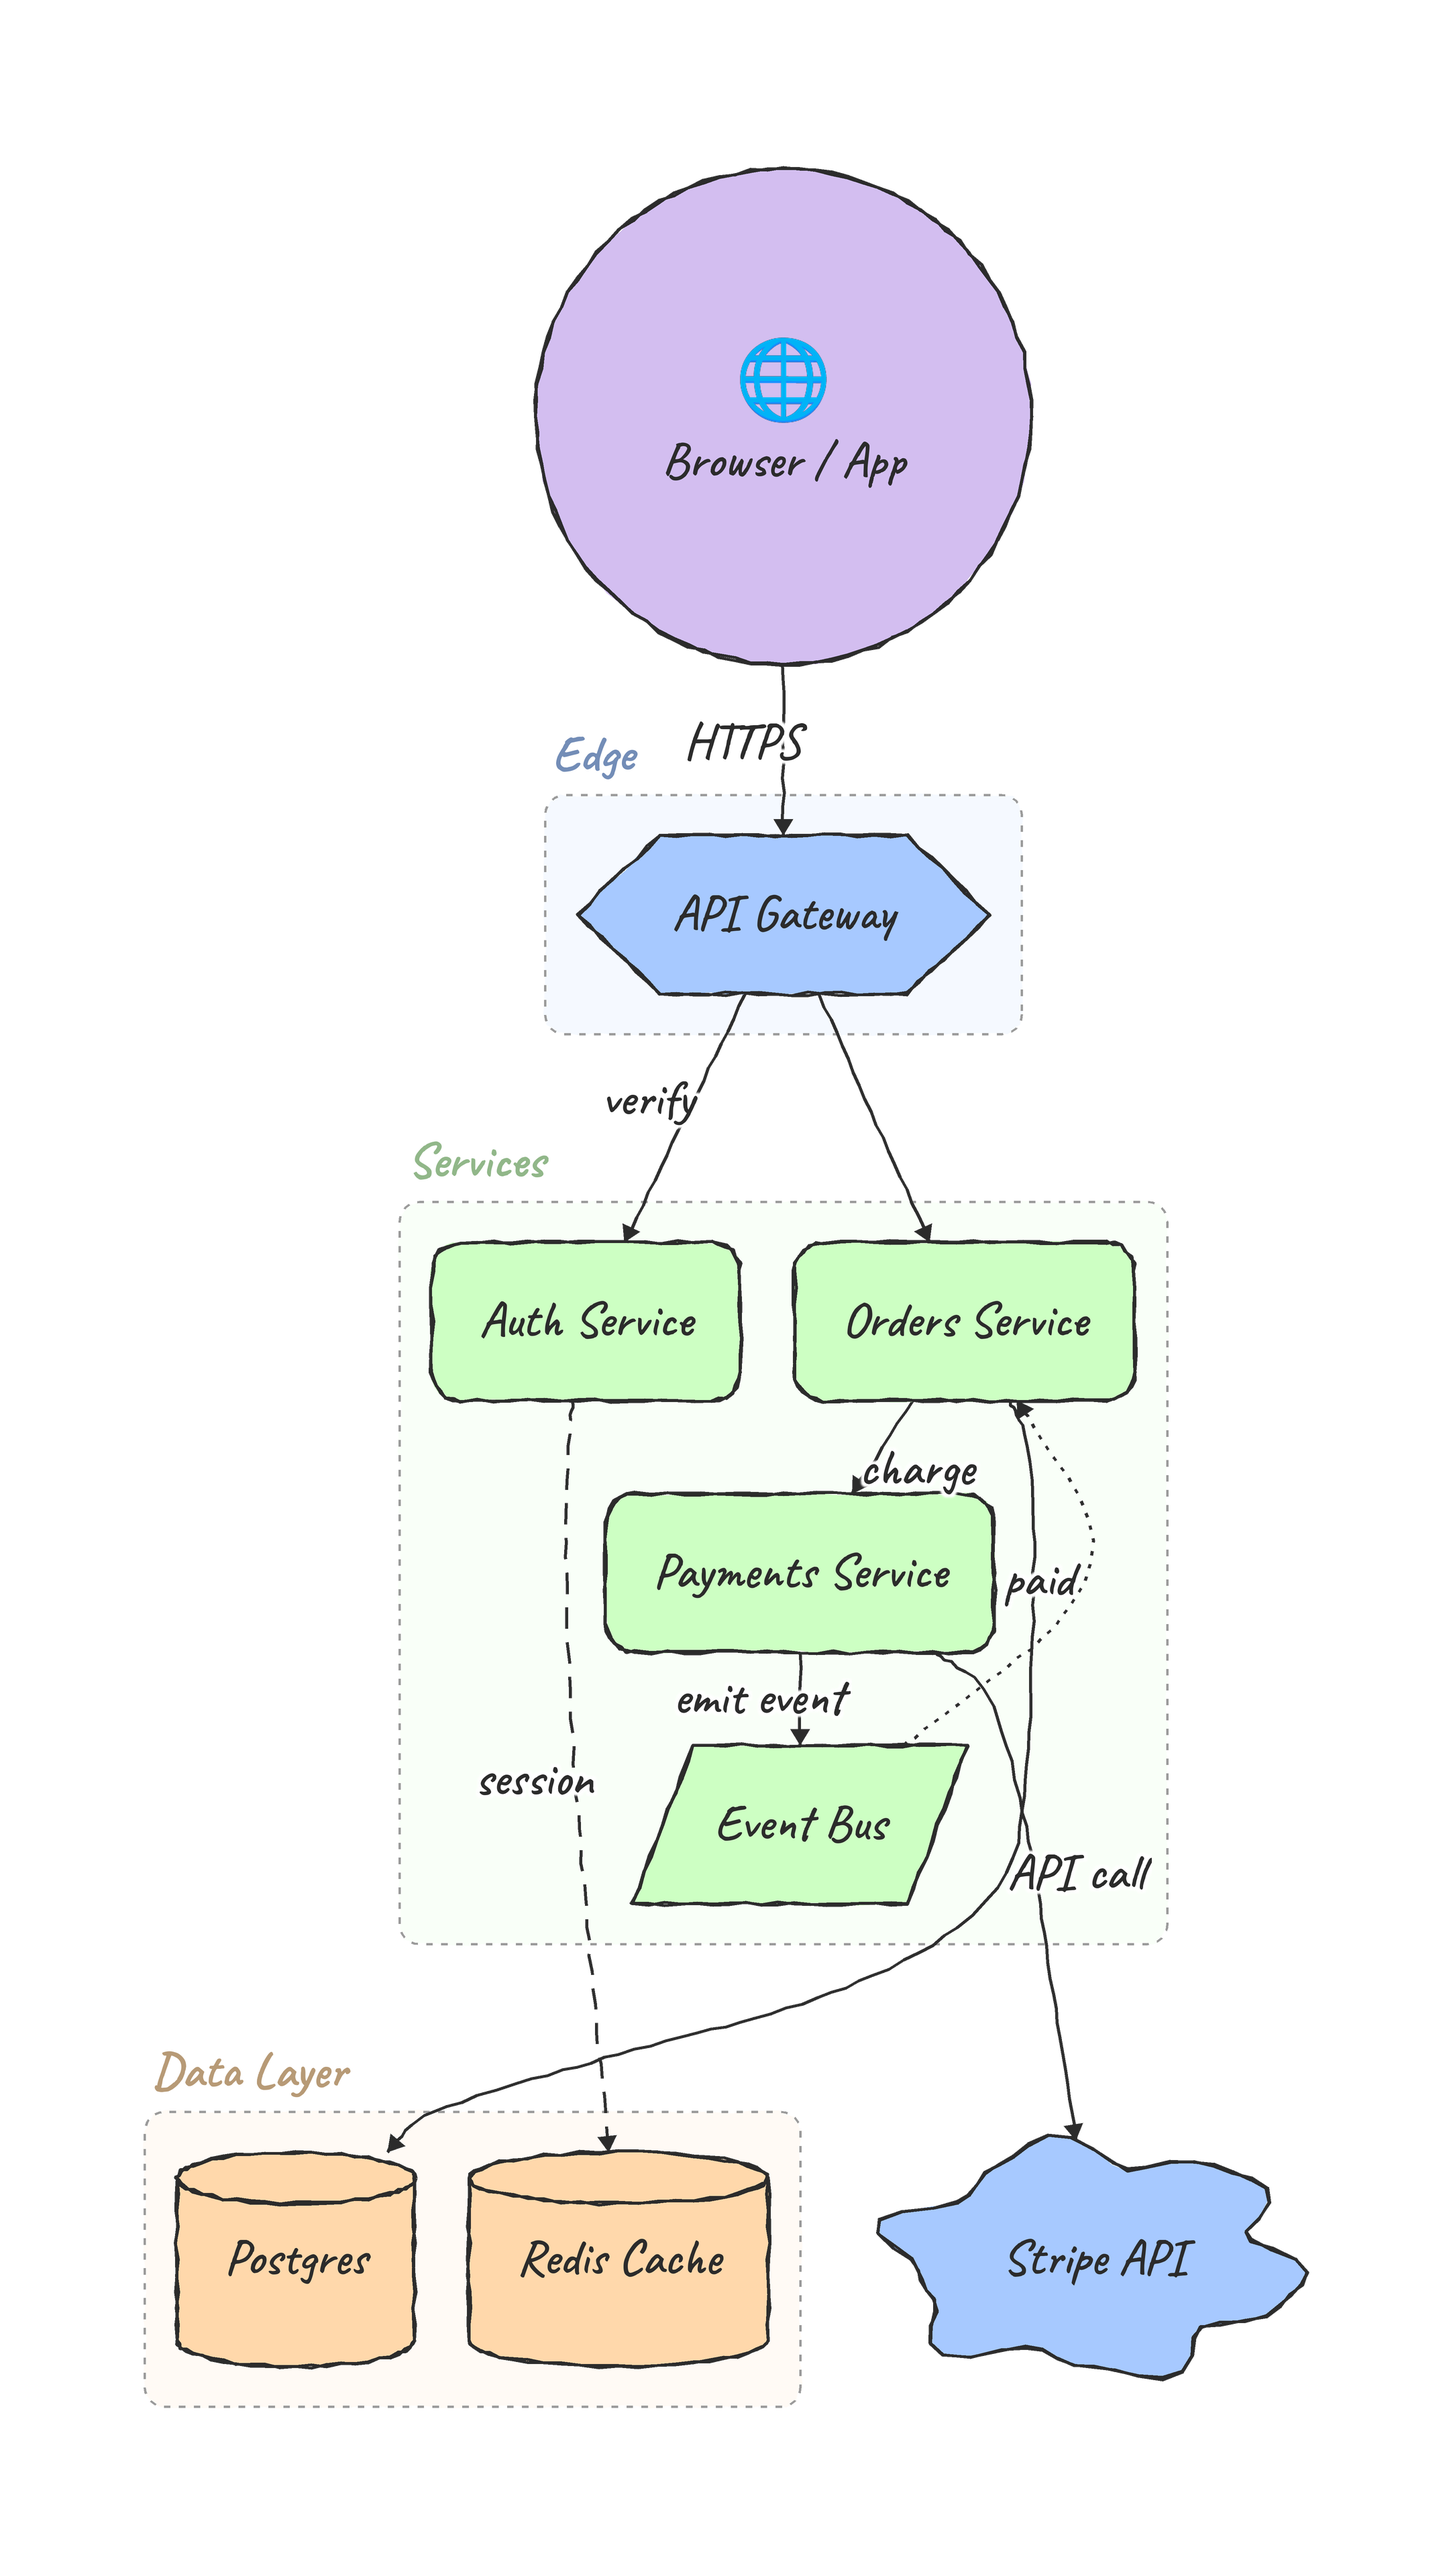
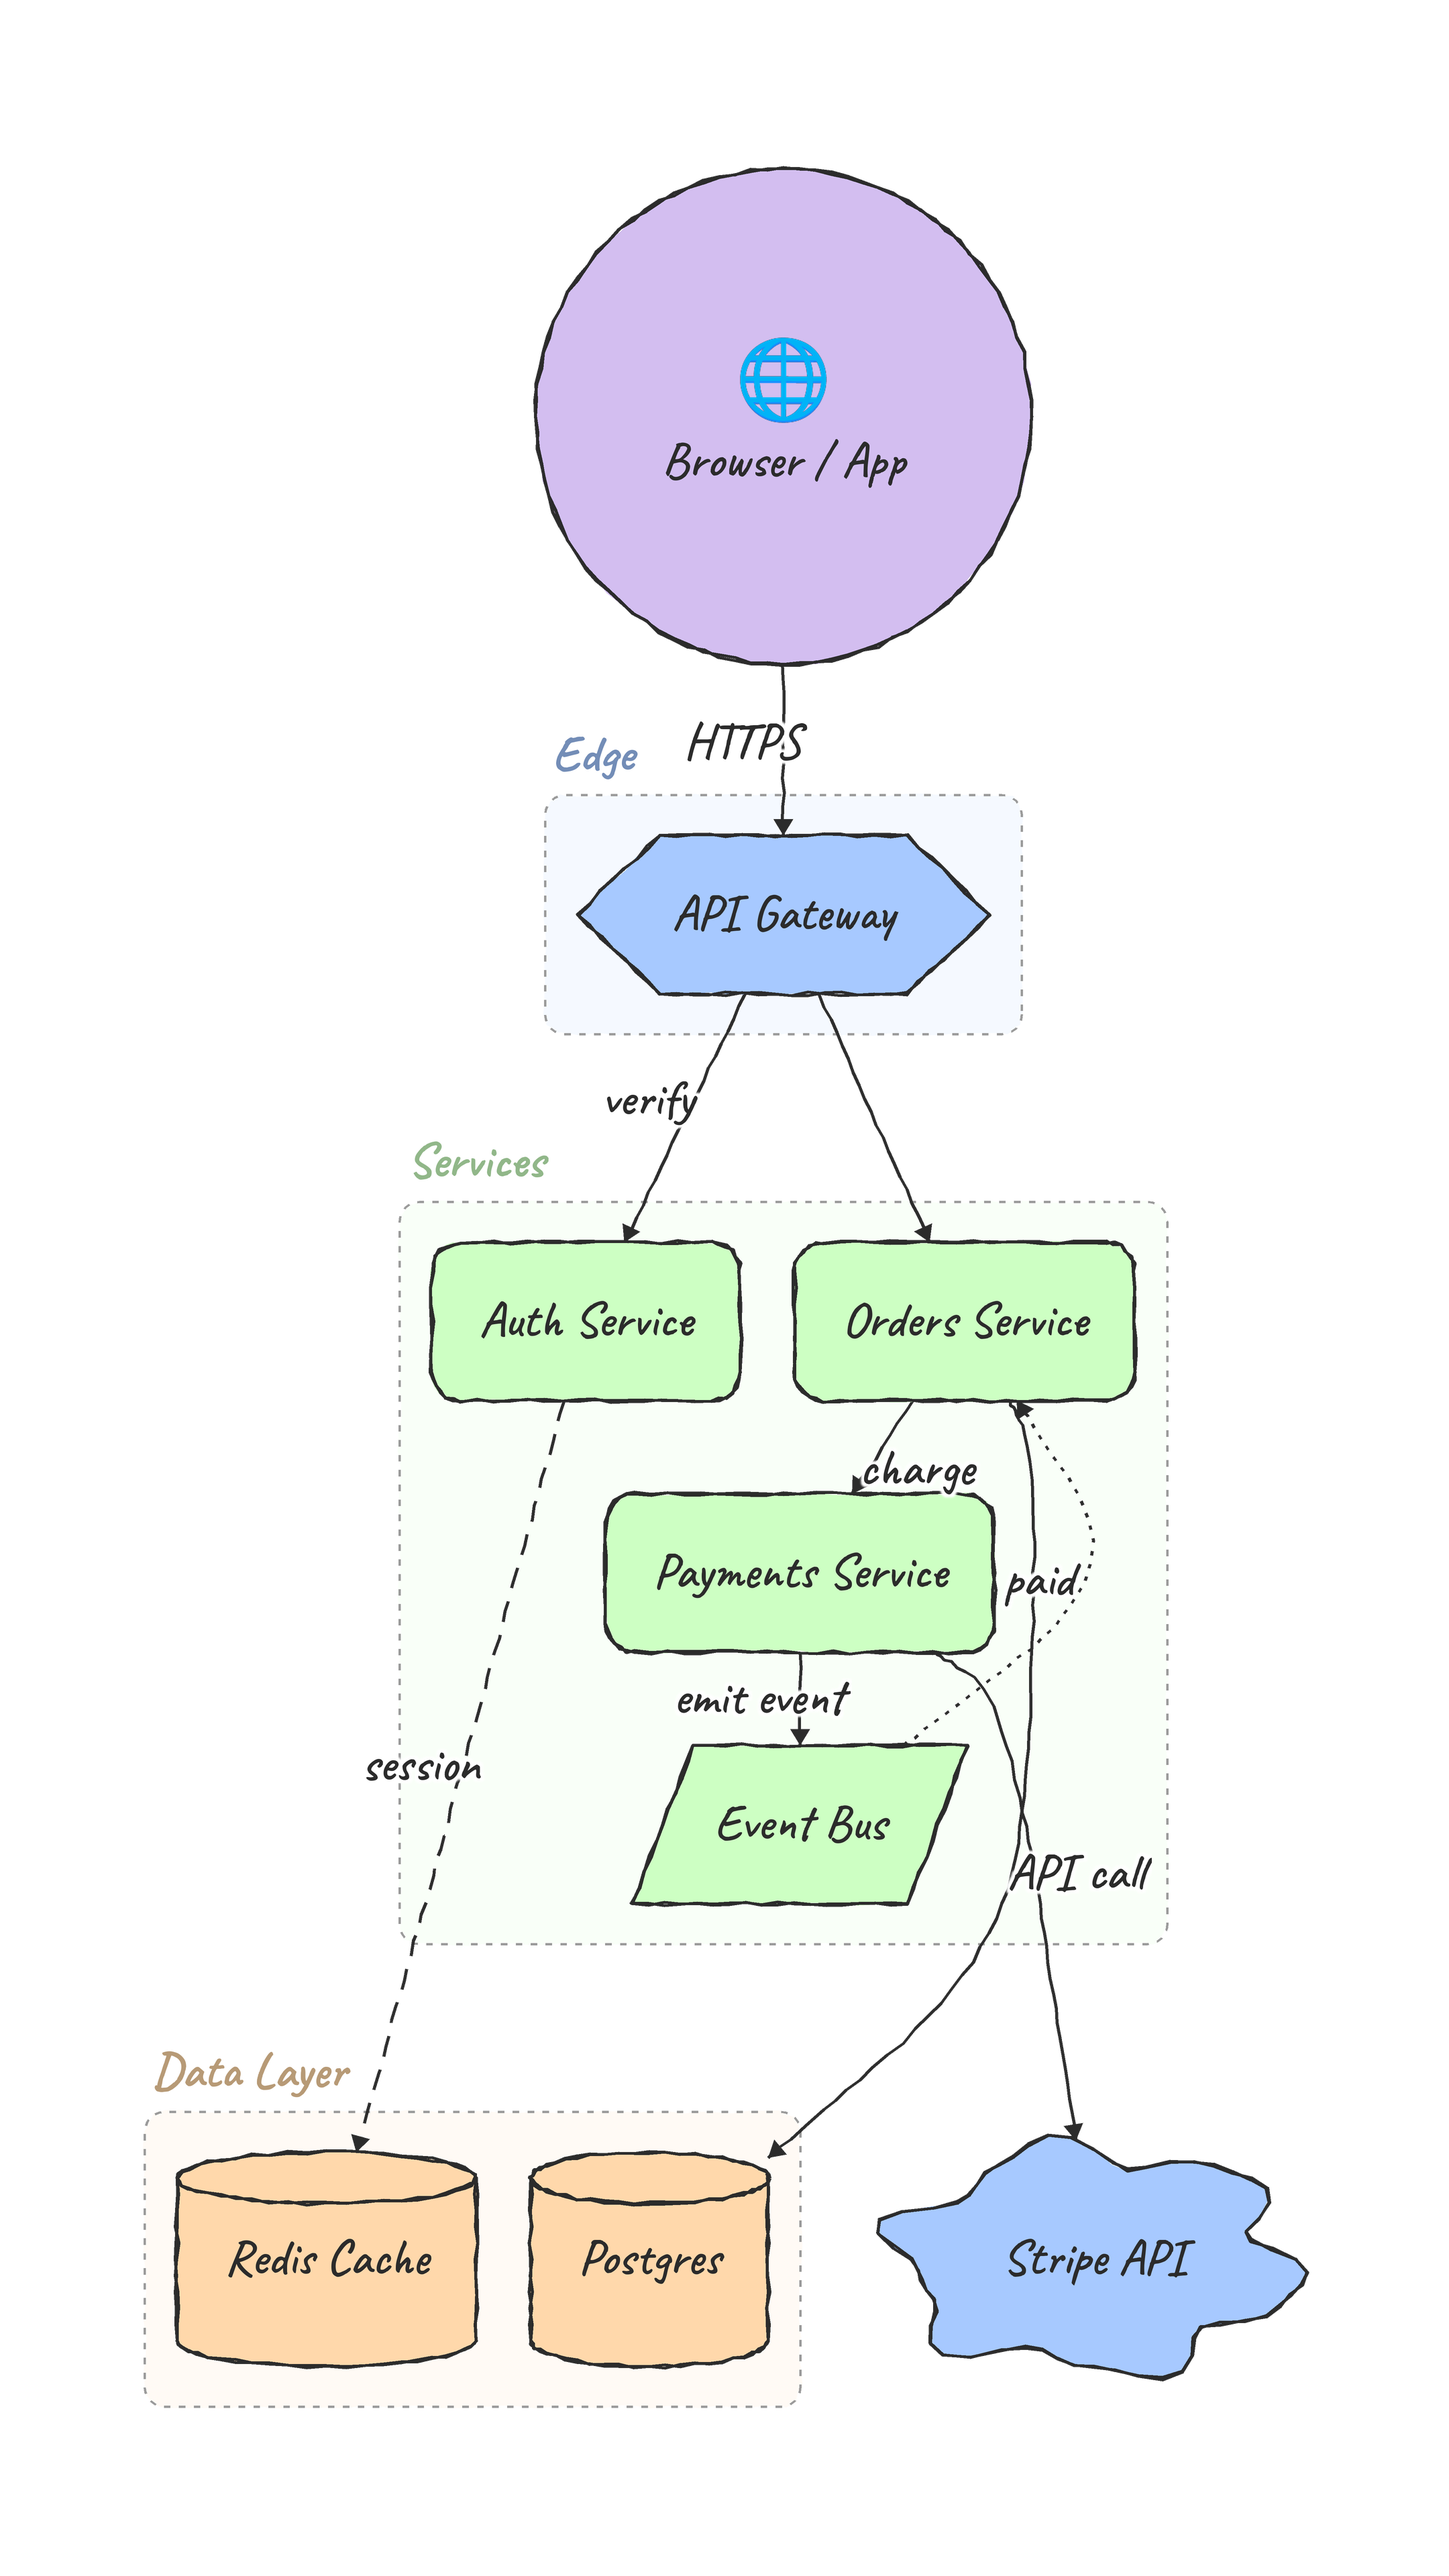
Order independent-cluster members to match external connections
Placement was creating edge crossings: a data store on the left was wired
to a service on the right and vice-versa, so the edges crossed. Add a
two-pass step that, for clusters which are just a set of independent nodes,
orders the members to line up with the side their external neighbours sit
on (e.g. the cache that talks to the left-hand service goes left). Cuts the
architecture's crossings without destabilising structured clusters.

Claude-Session: https://claude.ai/code/session_01PkQ793Mrcet6GuHUUkKXnM

Changed region(s): [[0.1551, 0.8125, 0.4963, 0.9375], [0.3102, 0.6875, 0.4032, 0.7188], [0.6824, 0.7188, 0.7134, 0.75]]

diff --git a/flowblow/layout.py b/flowblow/layout.py
@@ -663,8 +663,51 @@ def layout_clustered(diagram: Diagram, measure=None) -> Layout:
     if not active:
         return layout_diagram(diagram, measure=measure)
 
+    # Two passes: lay out once, then re-order each cluster's members so they sit
+    # in the same left/right order as the external neighbours they connect to
+    # (cuts crossings -- e.g. put the DB that talks to the right-hand service on
+    # the right). The second pass uses those orders.
+    first = _clustered_impl(diagram, measure, node_by_id, active, None)
+    neigh: Dict[str, set] = {n.id: set() for n in diagram.nodes}
+    for e in diagram.edges:
+        if e.source in neigh and e.target in neigh:
+            neigh[e.source].add(e.target)
+            neigh[e.target].add(e.source)
+    members = {g.id: [n.id for n in diagram.nodes if n.group == g.id] for g in active}
+    internal = {g.id: sum(1 for e in diagram.edges
+                          if node_by_id.get(e.source) and node_by_id.get(e.target)
+                          and node_by_id[e.source].group == g.id
+                          and node_by_id[e.target].group == g.id)
+                for g in active}
+    horizontal = diagram.direction in (Direction.LR, Direction.RL)
+    order_hint: Dict[str, list] = {}
+    for g in active:
+        gid = g.id
+        # Only re-order clusters that are just a SET of independent nodes (no
+        # internal edges) -- there the order is otherwise arbitrary, so align it
+        # with the external neighbours. Clusters with internal structure keep
+        # their own layout.
+        if internal[gid] != 0:
+            continue
+
+        def ext_key(m):
+            ns = [first.nodes[o] for o in neigh[m]
+                  if o in first.nodes and node_by_id[o].group != gid]
+            if not ns:
+                p = first.nodes[m]
+                return p.y if horizontal else p.x
+            return (sum(p.y for p in ns) / len(ns) if horizontal
+                    else sum(p.x for p in ns) / len(ns))
+        order_hint[gid] = sorted(members[gid], key=ext_key)
+    return _clustered_impl(diagram, measure, node_by_id, active, order_hint)
+
+
+def _clustered_impl(diagram, measure, node_by_id, active, order_hint) -> Layout:
     sizes = {n.id: measure(n, diagram.font_size) for n in diagram.nodes}
     members = {g.id: [n.id for n in diagram.nodes if n.group == g.id] for g in active}
+    if order_hint:
+        for gid, ordered in order_hint.items():
+            members[gid] = ordered
     grouped = {i for ids in members.values() for i in ids}
     ungrouped = [n for n in diagram.nodes if n.id not in grouped]
 
